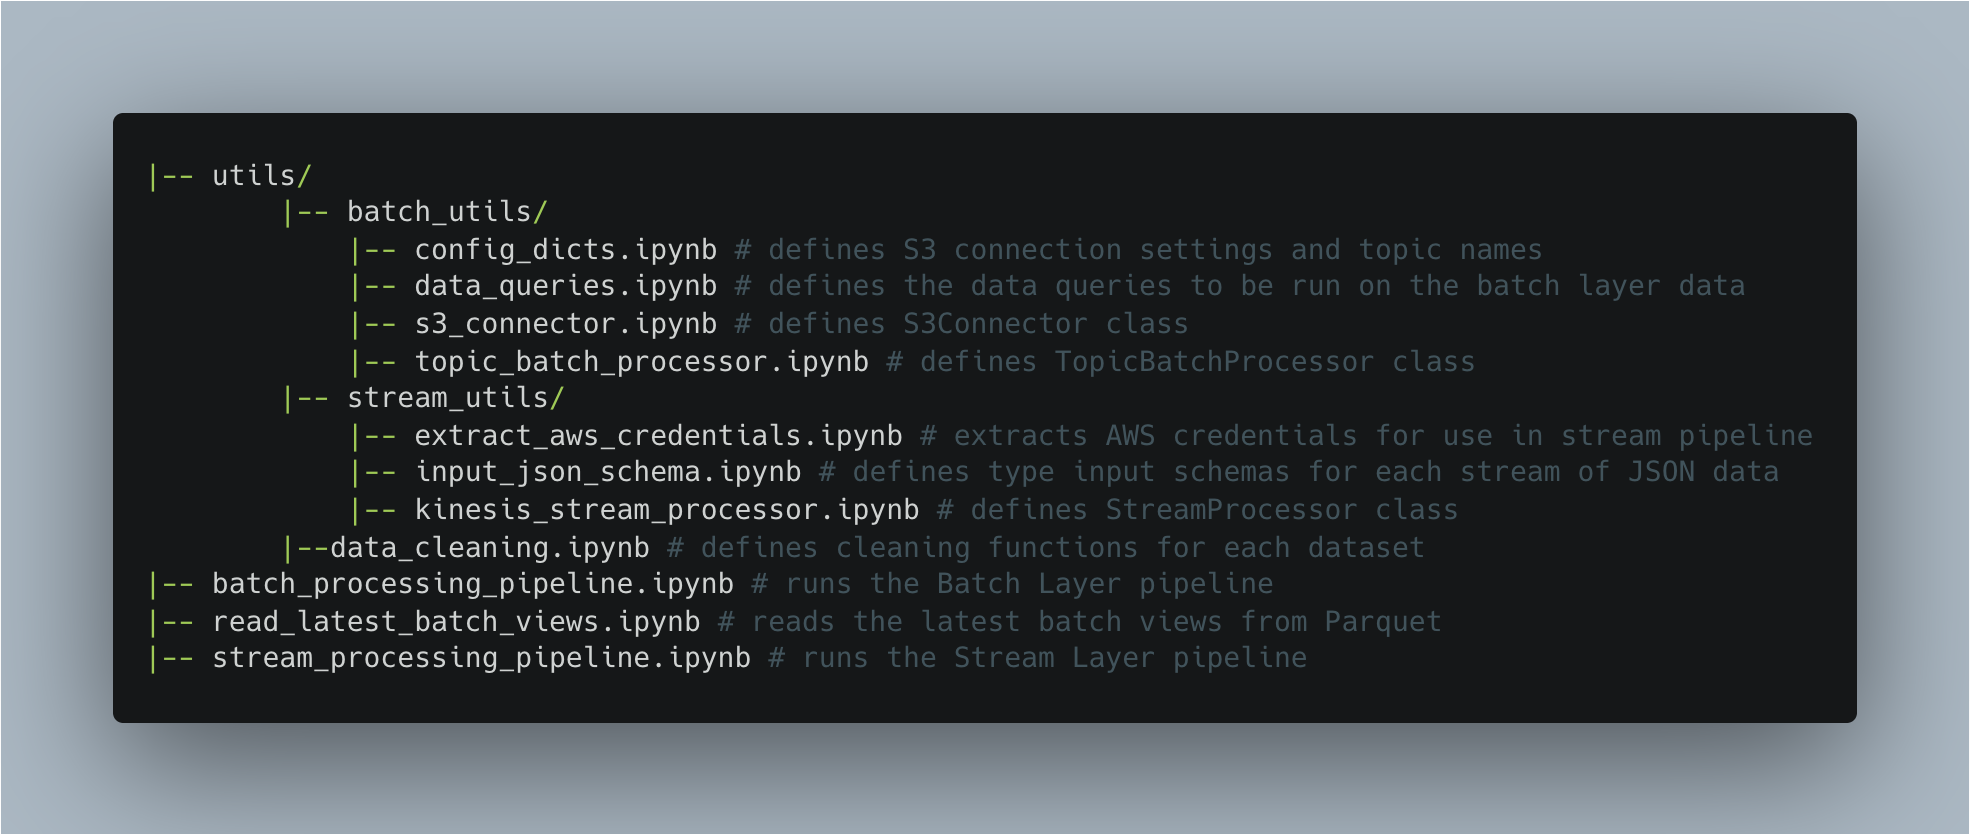
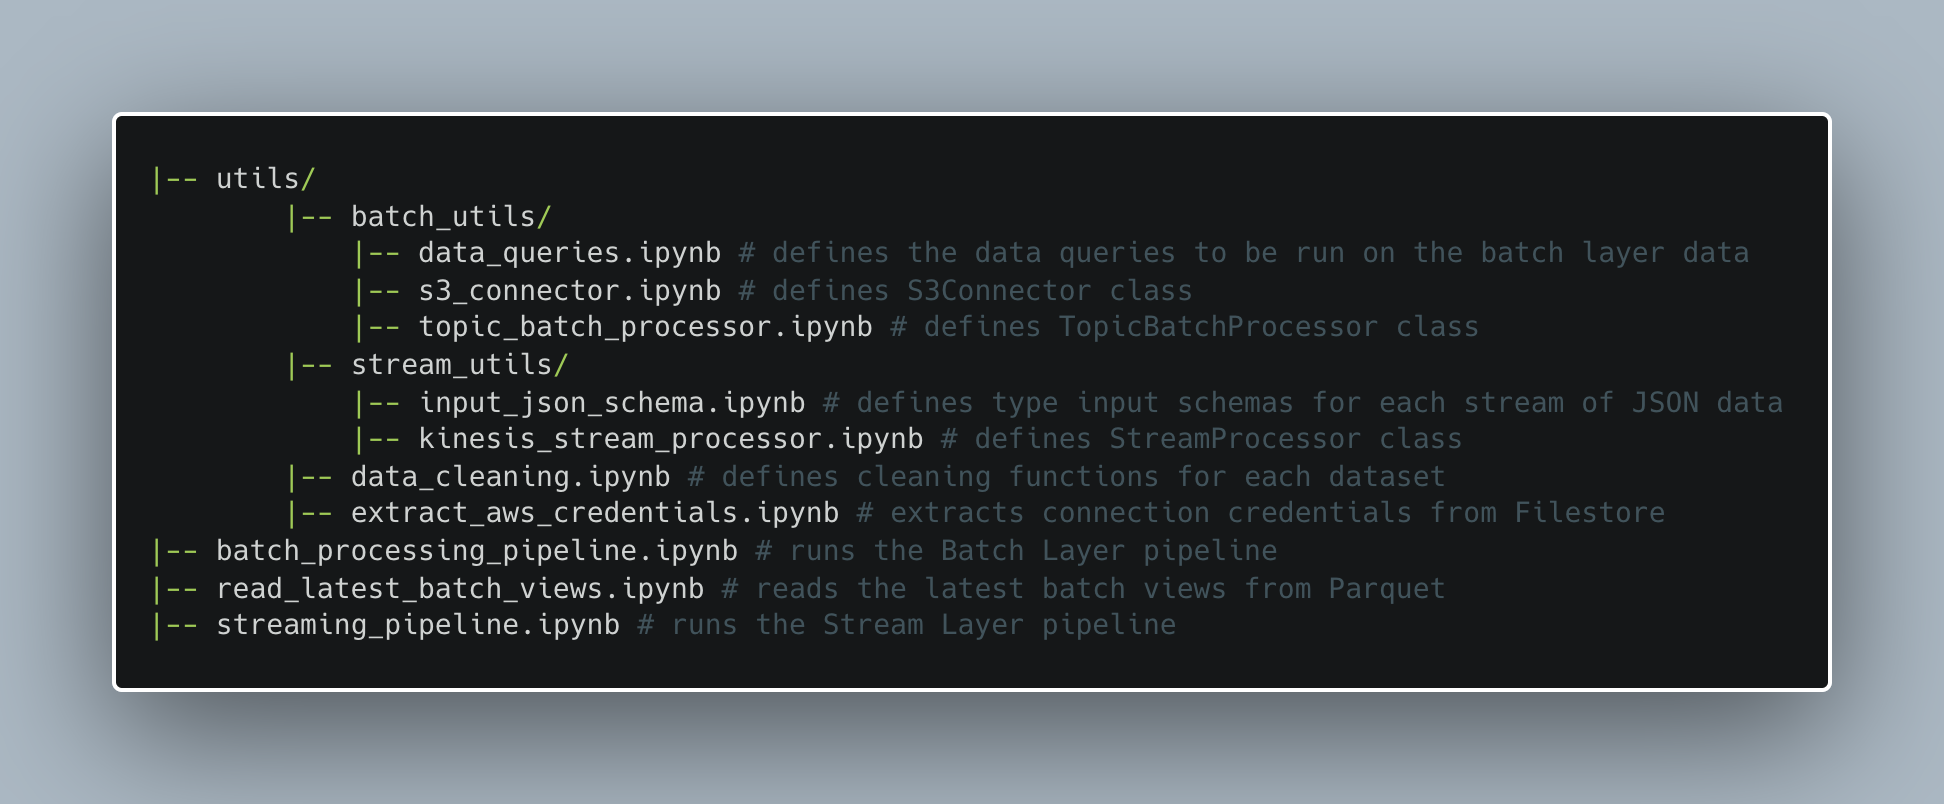
updated to reflect code refactor of aws credentials extraction and file restructuring in Databricks

Changed region(s): [[0.0617, 0.1866, 0.9259, 0.8085], [0.0617, 0.8396, 0.9568, 0.8706], [0.0617, 0.1244, 0.9568, 0.1555]]

diff --git a/README.md b/README.md
@@ -183,7 +183,7 @@ Refer to the file structure below when following the installation instructions r
 
 ### [Launching the pipeline](#launching-the-pipeline)
 > Before launching the pipeline:
-> - check consistency in the Kafka topic naming across the Kafka Client on EC2, the local machine emulation script and the Databricks workspace config dictionary;
+> - check consistency in the Kafka topic naming across the Kafka Client on EC2, the local machine emulation script and the configuration dictionary at the top of the batch layer pipeline notebook;
 >- check consistency in the Kinesis stream naming across AWS Kinesis, the local machine emulation script and the Databricks workspace stream layer pipeline notebook;
 >- make sure the EC2 instance is in launched-mode, and its current state publicDNS has been used in the proxy integration API resource on API Gateway;
 >- make sure the API on API Gateway is deployed and the correct invoke URL has been passed into the `api_gateway_config.yaml` file on your local machine.
